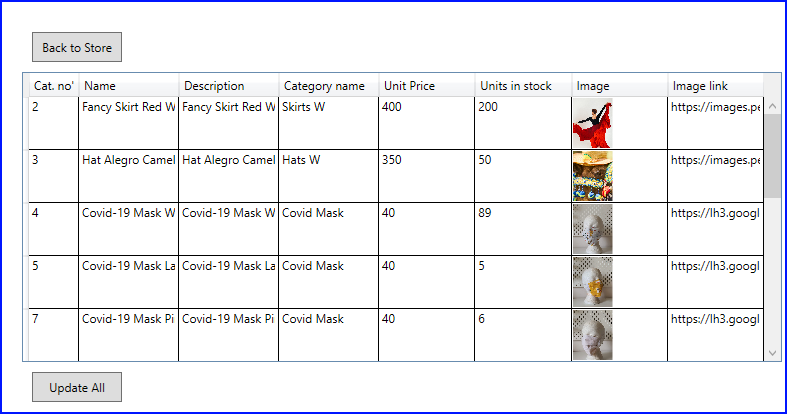
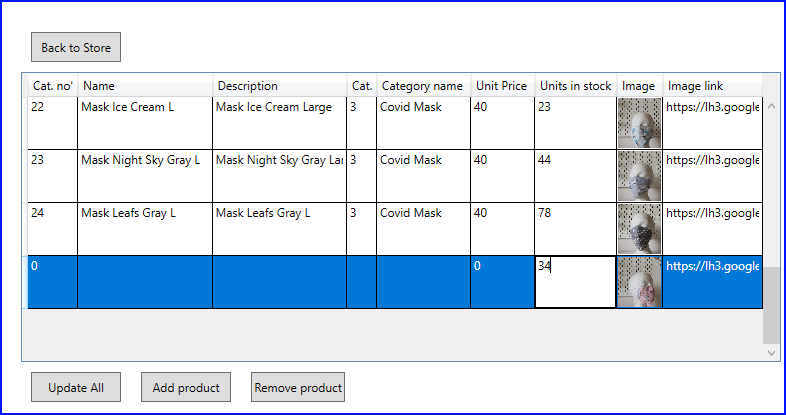
Inventory area completed

Changed region(s): [[0.0305, 0.1739, 1.0, 0.9855], [0.0305, 0.087, 0.1527, 0.1449]]

diff --git a/Inventory.xaml b/Inventory.xaml
@@ -35,26 +35,29 @@
             <DataGrid x:Name="DataGridInventory" x:FieldModifier="public" AutoGenerateColumns="False" ColumnWidth="*"  MaxHeight="290" CellEditEnding="DataGridInventory_CellEditEnding">
                 <DataGrid.Columns>
                     <DataGridTextColumn Header="Cat. no'" Binding="{Binding ProductID}" MinWidth="30" MaxWidth="50" IsReadOnly="True" CanUserResize="False"/>
-                    <DataGridTextColumn Header="Name" Binding="{Binding ProductName}" MinWidth="100"/>
-                    <DataGridTextColumn Header="Description" Binding="{Binding ProductDescription}" MinWidth="100"/>
-                    <DataGridTextColumn Header="Category name" Binding="{Binding Category.CategoryName}" MinWidth="100"/>
-                    <DataGridTextColumn Header="Unit Price" Binding="{Binding UnitPrice, TargetNullValue=(enter a Untir price)}" MinWidth="50"/>
-                    <DataGridTextColumn Header="Units in stock" Binding="{Binding UnitsInStock, TargetNullValue=(enter a Units in stock)}" MinWidth="40"/>
-                    <DataGridTemplateColumn Header ="Image">
+                    <DataGridTextColumn Header="Name" Binding="{Binding ProductName, Mode=TwoWay}" MinWidth="100"/>
+                    <DataGridTextColumn Header="Description" Binding="{Binding ProductDescription, Mode=TwoWay}" MinWidth="100"/>
+                    <DataGridTextColumn Header="Cat. ID" Binding="{Binding CategoryID, Mode=TwoWay}" Width="30"/>
+                    <DataGridTextColumn Header="Category name" Binding="{Binding Category.CategoryName}" IsReadOnly="True" Width="94"/>
+                    <DataGridTextColumn Header="Unit Price" Binding="{Binding UnitPrice, TargetNullValue=(enter a Untir price), Mode=TwoWay}" Width="64"/>
+                    <DataGridTextColumn Header="Units in stock" Binding="{Binding UnitsInStock, TargetNullValue=(enter a Units in stock), Mode=TwoWay}" Width="82"/>
+                    <DataGridTemplateColumn Header ="Image" IsReadOnly="True" Width="46">
                         <DataGridTemplateColumn.CellTemplate>
                             <DataTemplate>
                                 <StackPanel Orientation="Horizontal">
-                                    <Image Source="{Binding Image}" Stretch="UniformToFill" Width="40" Height="50" ToolTip="{Binding Image}"/>
+                                    <Image Source="{Binding Image}" Stretch="UniformToFill" Width="46" Height="50" ToolTip="{Binding Image}"/>
                                 </StackPanel>
                             </DataTemplate>
                         </DataGridTemplateColumn.CellTemplate>
                     </DataGridTemplateColumn>
-                    <DataGridTextColumn Header="Image link" Binding="{Binding Image}" MaxWidth="100"/>
+                    <DataGridTextColumn Header="Image link" Binding="{Binding Image, Mode=TwoWay}" MaxWidth="100"/>
                 </DataGrid.Columns>
             </DataGrid>
         </DockPanel>
 
-        <Button x:Name="UpdateDB" Grid.Column="1" Grid.Row="4" Content="Update All" Width="90" Height="30" Margin="10" HorizontalAlignment="Left" ToolTip="Update Database" Click="UpdateDB_Click"/>
+        <Button x:Name="bt_UpdateDB" Grid.Column="1" Grid.Row="4" Content="Update All" Width="90" Height="30" Margin="10" HorizontalAlignment="Left" ToolTip="Update Database" Click="bt_UpdateDB_Click"/>
+        <Button x:Name="bt_AddProduct" Grid.Column="2" Grid.Row="4" Content="Add product" Width="90" Height="30" Margin="10" HorizontalAlignment="Left" ToolTip="Add new product to Database" Click="bt_AddProduct_Click"/>
+        <Button x:Name="bt_RemoveProduct" Grid.Column="3" Grid.Row="4" Content="Remove product" Width="94" Height="30" Margin="10" HorizontalAlignment="Left" ToolTip="Remove selected product from Database" Click="bt_RemoveProduct_Click"/>
 
     </Grid>
 </Window>

diff --git a/Inventory.xaml.cs b/Inventory.xaml.cs
@@ -47,7 +47,7 @@ namespace WpfProject1_OnlineShop
             _mainWindow.Show();
         }
 
-        private void UpdateDB_Click(object sender, RoutedEventArgs e)
+        private void bt_UpdateDB_Click(object sender, RoutedEventArgs e)
         {
             using (var dbContext = new DBAccess())
             {
@@ -66,5 +66,36 @@ namespace WpfProject1_OnlineShop
                 _changedProducts.Add(e.Row.Item as Products);
             }
         }
+
+        private void bt_AddProduct_Click(object sender, RoutedEventArgs e)
+        {
+            if(DataGridInventory.Items.MoveCurrentToLast())
+            { 
+                Products newProduct = DataGridInventory.Items.CurrentItem as Products;
+
+                using (var dbContext = new DBAccess())
+                {
+                    dbContext.Add(newProduct);
+                    dbContext.SaveChanges();
+                }
+            }
+            MessageBox.Show("Product has been added successfully.");
+
+            DataGridInventory.Items.Refresh();
+        }
+
+        private void bt_RemoveProduct_Click(object sender, RoutedEventArgs e)
+        {
+            Products removeProduct = DataGridInventory.SelectedItem as Products;
+            using (var dbContext = new DBAccess())
+            {
+                dbContext.Remove(removeProduct);
+                dbContext.SaveChanges();
+            }
+            MessageBox.Show("Product has been removed successfully.");
+
+            LoadInventory();
+        }
+        
     }
 }
